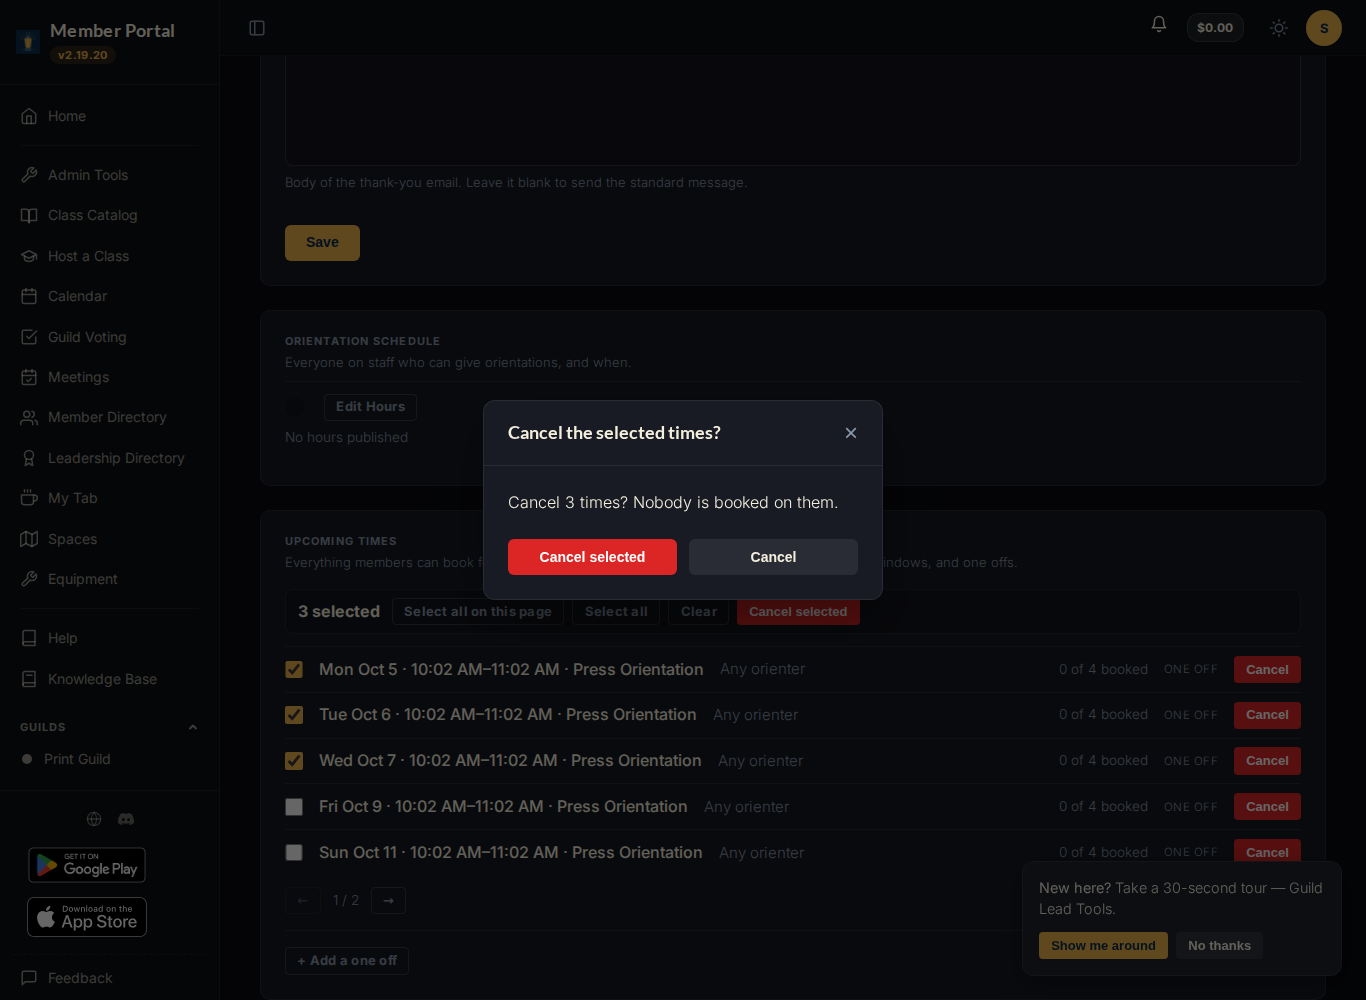
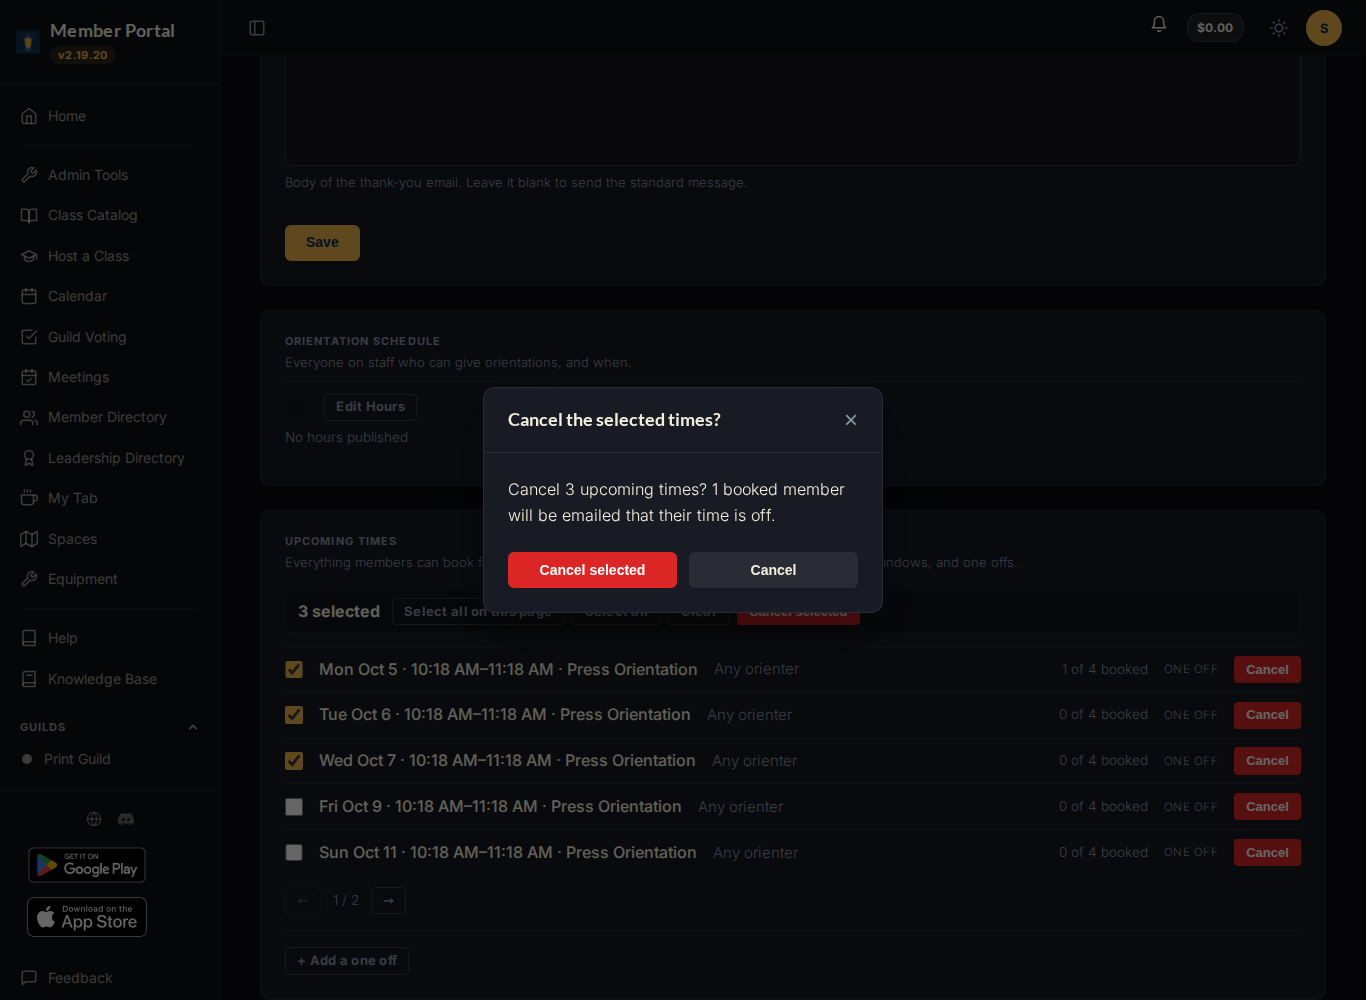
Review round: the confirm counts booked members through the teleport, carved segments stay, and the copy says upcoming times
The card reads its rows once in init(), where $el is the card, because the confirm body is teleported into the modal and a method walking the DOM from there found no rows and counted nobody as booked. The bulk view mirrors the card and skips a slot carved out of a live window. Counts read as upcoming times, every pick box names its date and time, the booked sentence always comes first, and at phone width the time shares the pick box's line. The fragment carries the PR number.

Claude-Session: fog-feature-round 2026-10-03

diff --git a/templates/hub/guild_edit.html b/templates/hub/guild_edit.html
@@ -702,34 +702,43 @@ confirm modal carries its own POST form, and template content can't nest a form.
           size: 5,
           total: total,
           selected: [],
-          rows() { return Array.from(this.$root.querySelectorAll('[data-time-key]')); },
+          times: [],
+          init() {
+            // Read the rows once, here, where $el is the card. The confirm body is teleported into the
+            // modal, whose own x-data answers $root and $el there, so a method that walked the DOM from
+            // either would find no rows inside the confirm and count nobody as booked.
+            this.times = Array.from(this.$el.querySelectorAll('[data-time-key]')).map(function (row) {
+              return {
+                key: row.getAttribute('data-time-key'),
+                index: Number(row.getAttribute('data-time-index')),
+                emails: Number(row.getAttribute('data-emails'))
+              };
+            });
+          },
           toggle(key) {
             if (this.selected.includes(key)) { this.selected = this.selected.filter(function (k) { return k !== key; }); }
             else { this.selected = this.selected.concat([key]); }
           },
           selectPage() {
             var first = this.page * this.size, last = first + this.size, picked = this.selected.slice();
-            this.rows().forEach(function (row) {
-              var index = Number(row.getAttribute('data-time-index')), key = row.getAttribute('data-time-key');
-              if (index >= first && index < last && !picked.includes(key)) { picked.push(key); }
+            this.times.forEach(function (time) {
+              if (time.index >= first && time.index < last && !picked.includes(time.key)) { picked.push(time.key); }
             });
             this.selected = picked;
           },
-          selectAll() { this.selected = this.rows().map(function (row) { return row.getAttribute('data-time-key'); }); },
+          selectAll() { this.selected = this.times.map(function (time) { return time.key; }); },
           clear() { this.selected = []; },
           emails() {
             var selected = this.selected;
-            return this.rows().reduce(function (sum, row) {
-              return selected.includes(row.getAttribute('data-time-key')) ? sum + Number(row.getAttribute('data-emails')) : sum;
-            }, 0);
+            return this.times.reduce(function (sum, time) { return selected.includes(time.key) ? sum + time.emails : sum; }, 0);
           },
           hasWindows() { return this.selected.some(function (key) { return key.indexOf('window:') === 0; }); },
           bulkMessage() {
             var count = this.selected.length, emailed = this.emails();
-            var text = 'Cancel ' + count + (count === 1 ? ' time?' : ' times?');
+            var text = 'Cancel ' + count + (count === 1 ? ' upcoming time?' : ' upcoming times?');
             if (emailed > 0) {
               text += ' ' + emailed + (emailed === 1 ? ' booked member' : ' booked members') + ' will be emailed that their time is off.';
-            } else if (!this.hasWindows()) {
+            } else {
               text += (count === 1 ? ' Nobody is booked on it.' : ' Nobody is booked on them.');
             }
             if (this.hasWindows()) { text += ' Open windows stop taking new bookings; anything already booked inside them stays.'; }
@@ -756,7 +765,7 @@ confirm modal carries its own POST form, and template content can't nest a form.
       {% with item=entry.item pks=entry.item.pk|stringformat:"s" %}
       {% if entry.kind == "window" %}
       <div x-show="{{ forloop.counter0 }} >= page * size && {{ forloop.counter0 }} < (page + 1) * size" class="pl-slot-admin__row" data-time-key="window:{{ item.pk }}" data-time-index="{{ forloop.counter0 }}" data-emails="0">
-        <input type="checkbox" class="pl-slot-admin__pick" aria-label="Select this time" :checked="selected.includes('window:{{ item.pk }}')" @change="toggle('window:{{ item.pk }}')">
+        <input type="checkbox" class="pl-slot-admin__pick" aria-label="Select {{ item.starts_at|date:'D M j' }}, {{ item.starts_at|time:'g:i A' }}" :checked="selected.includes('window:{{ item.pk }}')" @change="toggle('window:{{ item.pk }}')">
         <span class="pl-slot-admin__when">{{ item.starts_at|date:"D M j" }} · {{ item.starts_at|time:"g:i A" }}–{{ item.ends_at|time:"g:i A" }} · {{ item.type_display }}</span>
         <span class="pl-slot-admin__with">
           {% if item.orienter.profile_photo %}<img src="{{ item.orienter.profile_photo.url }}" alt="" class="pl-orient-avatar">{% else %}<span class="pl-orient-avatar pl-orient-avatar--initials">{{ item.orienter.display_name|slice:":1" }}</span>{% endif %}
@@ -777,7 +786,7 @@ confirm modal carries its own POST form, and template content can't nest a form.
       </div>
       {% else %}
       <div x-show="{{ forloop.counter0 }} >= page * size && {{ forloop.counter0 }} < (page + 1) * size" class="pl-slot-admin__row" data-time-key="slot:{{ item.pk }}" data-time-index="{{ forloop.counter0 }}" data-emails="{{ item.active_booking_count }}">
-        <input type="checkbox" class="pl-slot-admin__pick" aria-label="Select this time" :checked="selected.includes('slot:{{ item.pk }}')" @change="toggle('slot:{{ item.pk }}')">
+        <input type="checkbox" class="pl-slot-admin__pick" aria-label="Select {{ item.starts_at|date:'D M j' }}, {{ item.starts_at|time:'g:i A' }}" :checked="selected.includes('slot:{{ item.pk }}')" @change="toggle('slot:{{ item.pk }}')">
         <span class="pl-slot-admin__when">{{ item.starts_at|date:"D M j" }} · {{ item.starts_at|time:"g:i A" }}–{{ item.ends_at|time:"g:i A" }} · {{ item.orientation_type.name }}</span>
         <span class="pl-slot-admin__with">
           {% if item.orienter %}

diff --git a/static/css/hub.css b/static/css/hub.css
@@ -4203,6 +4203,10 @@ mark { background: color-mix(in srgb, var(--color-tuscan-yellow) 30%, transparen
 .pl-slot-admin__bar-count { font-weight: 600; color: var(--hub-text); margin-right: 0.25rem; }
 .pl-slot-admin__bulk-form { display: none; }
 .pl-slot-admin__bulk-message { margin: 0 0 1.5rem; }
+@media (max-width: 600px) {
+    /* The time span takes the rest of the pick box's line instead of dropping under it. */
+    .pl-slot-admin__row .pl-slot-admin__when { flex: 1 1 calc(100% - 2.1rem); }
+}
 
 /* Orientations tab (#532): the How members book chips (.pl-chip is the shared radio chip), the
    Edit Hours rows, booked segments under an open window on Upcoming Times, and Add a one off.

diff --git a/tests/hub/orientation_times_bulk_cancel_spec.py b/tests/hub/orientation_times_bulk_cancel_spec.py
@@ -13,10 +13,12 @@ from django.test import Client
 from django.urls import reverse
 from django.utils import timezone
 
-from membership.models import Guild, OrientationBooking
+from membership import orientations
+from membership.models import Guild, OrientationBooking, OrientationSlot
 from tests.membership.factories import (
     GuildFactory,
     GuildOrientationSettingsFactory,
+    MemberFactory,
     MembershipPlanFactory,
     OrientationAvailabilityBlockFactory,
     OrientationBookingFactory,
@@ -77,7 +79,7 @@ def describe_bulk_cancel():
         assert sorted(call.args[0].pk for call in cancel_slot.call_args_list) == sorted([booked.pk, empty.pk])
         window.refresh_from_db()
         assert window.is_cancelled is True
-        assert "Cancelled 3 times. 2 booked members were emailed." in _messages(response)
+        assert "Cancelled 3 upcoming times. 2 booked members were emailed." in _messages(response)
 
     def it_really_cancels_the_rows_and_their_bookings(client: Client):
         user, guild = _lead("bc2")
@@ -89,7 +91,7 @@ def describe_bulk_cancel():
         booking.refresh_from_db()
         assert slot.is_cancelled is True
         assert booking.status == OrientationBooking.Status.CANCELLED
-        assert "Cancelled 1 time. 1 booked member was emailed." in _messages(response)
+        assert "Cancelled 1 upcoming time. 1 booked member was emailed." in _messages(response)
 
     def it_skips_a_foreign_pk_a_cancelled_slot_and_a_nonsense_value(client: Client):
         user, guild = _lead("bc3")
@@ -110,7 +112,7 @@ def describe_bulk_cancel():
         foreign.refresh_from_db()
         assert mine.is_cancelled is True
         assert foreign.is_cancelled is False
-        assert "Cancelled 1 time." in _messages(response)
+        assert "Cancelled 1 upcoming time." in _messages(response)
         assert "emailed" not in _messages(response)
 
     def it_says_so_when_nothing_matched(client: Client):
@@ -127,6 +129,24 @@ def describe_bulk_cancel():
         cancel_slot.assert_not_called()
         foreign_window.refresh_from_db()
         assert foreign_window.is_cancelled is False
+        assert "Nothing to cancel." in _messages(response)
+
+    def it_skips_a_slot_carved_out_of_a_live_window(client: Client):
+        user, guild = _lead("bc9")
+        later = timezone.now() + timedelta(days=5)
+        window = OrientationAvailabilityBlockFactory(
+            guild=guild, orienter=user.member, starts_at=later, ends_at=later + timedelta(hours=3)
+        )
+        booking = orientations.request_block_orientation(
+            window, MemberFactory(), later + timedelta(hours=1), orientation_type=guild.orientation_types.first()
+        )
+        client.login(username="bc9", password="pass")
+        response = client.post(_bulk_url(guild), {"selected": [f"slot:{booking.slot.pk}"]}, follow=True)
+        booking.refresh_from_db()
+        booking.slot.refresh_from_db()
+        assert booking.slot.source == OrientationSlot.Source.FROM_BLOCK
+        assert booking.slot.is_cancelled is False
+        assert booking.status != OrientationBooking.Status.CANCELLED
         assert "Nothing to cancel." in _messages(response)
 
     def it_forbids_a_member_who_cannot_manage_orientations(client: Client):

diff --git a/tests/e2e/orientation_bulk_cancel_spec.py b/tests/e2e/orientation_bulk_cancel_spec.py
@@ -2,7 +2,7 @@
 
 The selection, the bar, the live confirm sentence and the hidden form are all Alpine on the
 page, so only a real browser proves the whole chain: tick two of three slots, the bar counts
-them, Cancel selected opens the confirm reading "Cancel 2 times?", and confirming lands back on
+them, Cancel selected opens the confirm reading "Cancel 2 upcoming times?", and confirming lands back on
 the Orientations tab with one slot left. Run with ``pytest -m e2e``.
 """
 
@@ -16,11 +16,12 @@ from django.urls import reverse
 from django.utils import timezone
 from playwright.sync_api import expect
 
-from membership.models import Member
+from membership.models import Member, OrientationBooking
 from tests.membership.factories import (
     GuildFactory,
     GuildOrientationSettingsFactory,
     MembershipPlanFactory,
+    OrientationBookingFactory,
     OrientationSlotFactory,
     OrientationTypeFactory,
 )
@@ -47,6 +48,8 @@ def describe_bulk_cancel_on_upcoming_times():
                 )
             )
 
+        OrientationBookingFactory(slot=slots[0], status=OrientationBooking.Status.CONFIRMED)
+
         page.goto(f"{live_server.url}{reverse('hub_guild_edit', args=[guild.pk])}?tab=orientations")
         rows = page.locator("[data-time-key]")
         expect(rows).to_have_count(3)
@@ -63,15 +66,23 @@ def describe_bulk_cancel_on_upcoming_times():
         bar.get_by_role("button", name="Cancel selected", exact=True).click()
         modal = page.locator(".pl-modal", has_text="Cancel the selected times?")
         expect(modal).to_be_visible()
-        expect(modal).to_contain_text("Cancel 2 times? Nobody is booked on them.")
+        # The sentence counts the confirmed booking: proof the confirm body reads the card's state
+        # through the teleport rather than walking the modal's own DOM.
+        expect(modal).to_contain_text(
+            "Cancel 2 upcoming times? 1 booked member will be emailed that their time is off."
+        )
         modal.get_by_role("button", name="Cancel selected", exact=True).click()
 
         # The POST redirects back to the tab (a boosted body swap on the same URL), so the
         # observable is the card itself: one row left, and the success message on the page.
         expect(page.locator("[data-time-key]")).to_have_count(1)
-        expect(page.locator("body")).to_contain_text("Cancelled 2 times.")
+        expect(page.locator("body")).to_contain_text("Cancelled 2 upcoming times. 1 booked member was emailed.")
         expect(page).to_have_url(re.compile(r"tab=orientations"))
         expect(page.locator(f'[data-time-key="slot:{slots[2].pk}"]')).to_have_count(1)
+
+        # The swapped card initialised afresh: ticking the survivor counts it.
+        page.locator(f'[data-time-key="slot:{slots[2].pk}"] .pl-slot-admin__pick').check()
+        expect(page.locator(".pl-slot-admin__bar")).to_contain_text("1 selected")
 
         assert [slot.pk for slot in guild.orientation_slots.upcoming()] == [slots[2].pk]
         for slot in slots[:2]:

diff --git a/hub/views.py b/hub/views.py
@@ -1830,7 +1830,7 @@ def _parse_time_keys(values: list[str]) -> tuple[list[int], list[int]]:
 
 def _bulk_cancel_message(cancelled: int, emailed: int) -> str:
     """The success line for a bulk cancel: how many times went, and how many members heard."""
-    message = f"Cancelled {cancelled} time{'' if cancelled == 1 else 's'}."
+    message = f"Cancelled {cancelled} upcoming time{'' if cancelled == 1 else 's'}."
     if emailed:
         message += f" {emailed} booked member{' was' if emailed == 1 else 's were'} emailed."
     return message
@@ -1848,6 +1848,7 @@ def guild_orientation_times_bulk_cancel(request: HttpRequest, pk: int) -> HttpRe
     for held checkouts and must not run inside an outer atomic block.
     """
     from membership import orientations
+    from membership.models import OrientationSlot
 
     guild = get_object_or_404(Guild, pk=pk)
     forbidden = _require_can_manage_orientations(request, guild)
@@ -1855,7 +1856,14 @@ def guild_orientation_times_bulk_cancel(request: HttpRequest, pk: int) -> HttpRe
         return forbidden
 
     slot_pks, window_pks = _parse_time_keys(request.POST.getlist("selected"))
-    slots = list(guild.orientation_slots.upcoming().filter(pk__in=slot_pks).with_active_booking_count())
+    # Mirror the card (_upcoming_times): a slot carved out of a live window is a booked segment
+    # under that window, never a row of its own, so a crafted key must not cancel it either.
+    slots = list(
+        guild.orientation_slots.upcoming()
+        .exclude(source=OrientationSlot.Source.FROM_BLOCK, block__is_cancelled=False)
+        .filter(pk__in=slot_pks)
+        .with_active_booking_count()
+    )
     windows = list(guild.orientation_blocks.upcoming().filter(pk__in=window_pks))
     emailed = 0
     for slot in slots:
